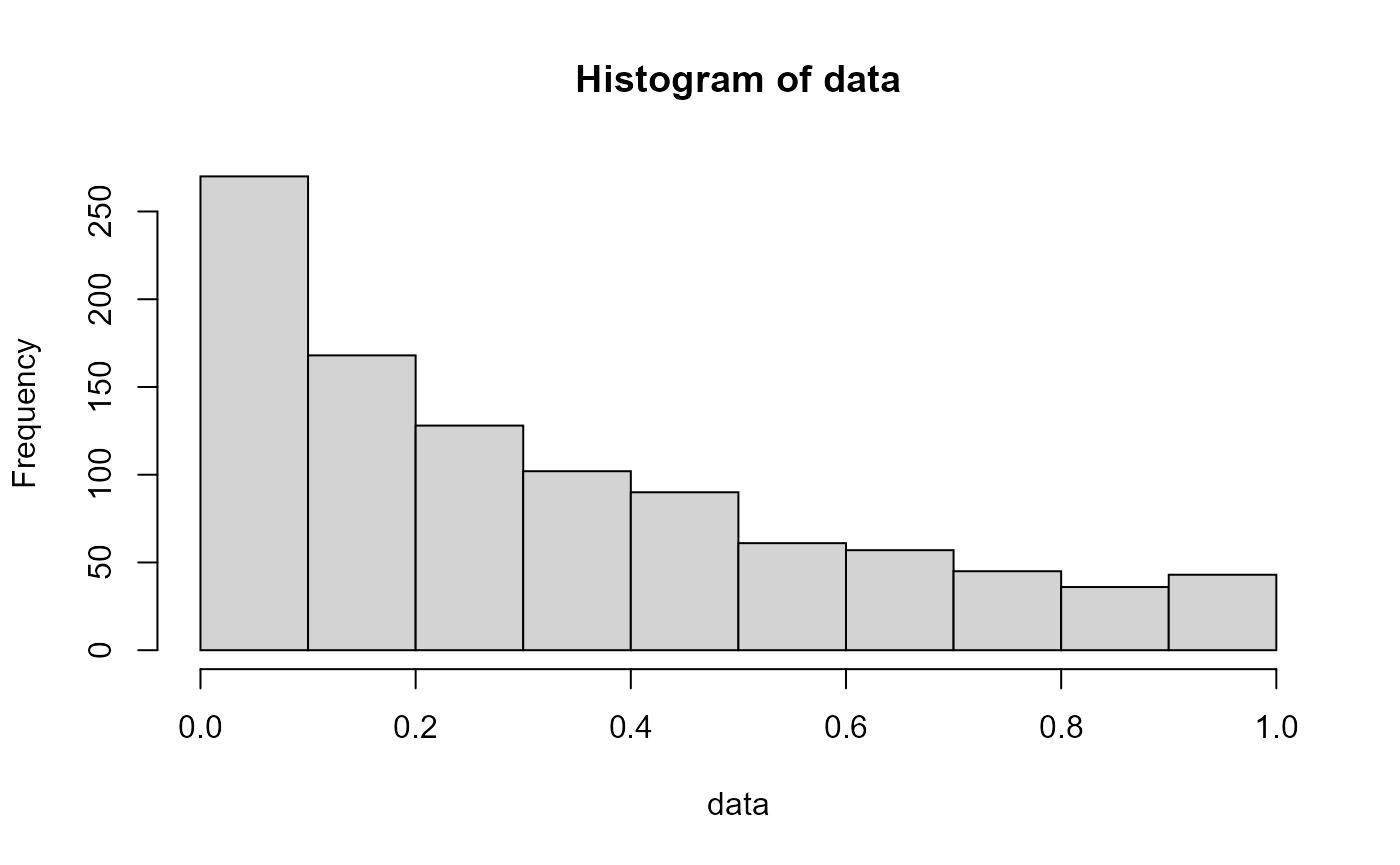
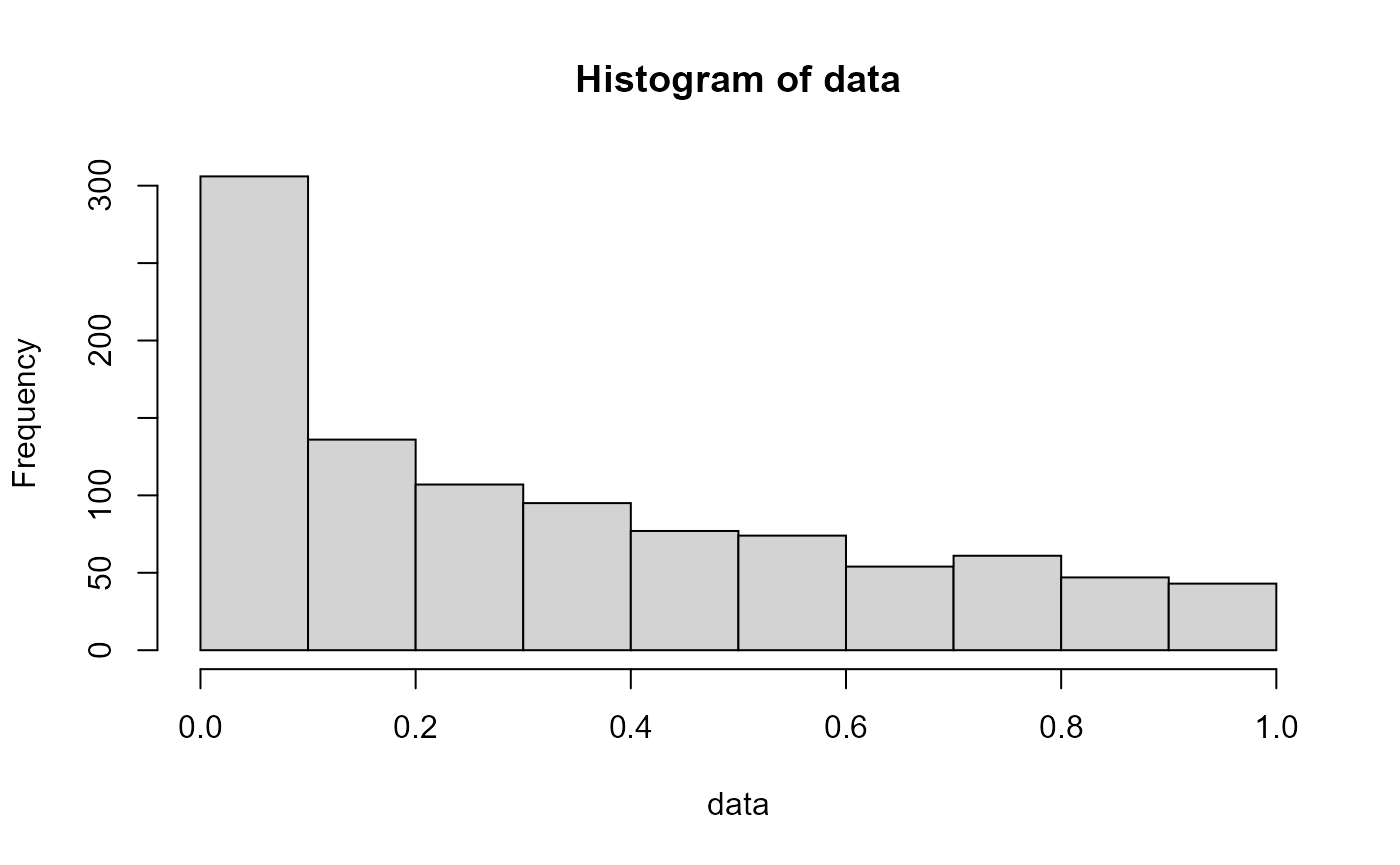
updated vignette

diff --git a/docs/articles/rng-bradford-dist.html b/docs/articles/rng-bradford-dist.html
@@ -5,7 +5,7 @@
 <meta charset="utf-8">
 <meta http-equiv="X-UA-Compatible" content="IE=edge">
 <meta name="viewport" content="width=device-width, initial-scale=1.0">
-<title>Generating Random Numbers from the Standardized Bradford Distribution with `bradfordr` • bradfordr</title>
+<title>Use the Standardized Bradford Distribution in R with `bradfordr` • bradfordr</title>
 <!-- favicons --><link rel="icon" type="image/png" sizes="16x16" href="../favicon-16x16.png">
 <link rel="icon" type="image/png" sizes="32x32" href="../favicon-32x32.png">
 <link rel="apple-touch-icon" type="image/png" sizes="180x180" href="../apple-touch-icon.png">
@@ -17,7 +17,7 @@
 <script src="../bootstrap-toc.js"></script><!-- Font Awesome icons --><link rel="stylesheet" href="https://cdnjs.cloudflare.com/ajax/libs/font-awesome/5.12.1/css/all.min.css" integrity="sha256-mmgLkCYLUQbXn0B1SRqzHar6dCnv9oZFPEC1g1cwlkk=" crossorigin="anonymous">
 <link rel="stylesheet" href="https://cdnjs.cloudflare.com/ajax/libs/font-awesome/5.12.1/css/v4-shims.min.css" integrity="sha256-wZjR52fzng1pJHwx4aV2AO3yyTOXrcDW7jBpJtTwVxw=" crossorigin="anonymous">
 <!-- clipboard.js --><script src="https://cdnjs.cloudflare.com/ajax/libs/clipboard.js/2.0.6/clipboard.min.js" integrity="sha256-inc5kl9MA1hkeYUt+EC3BhlIgyp/2jDIyBLS6k3UxPI=" crossorigin="anonymous"></script><!-- headroom.js --><script src="https://cdnjs.cloudflare.com/ajax/libs/headroom/0.11.0/headroom.min.js" integrity="sha256-AsUX4SJE1+yuDu5+mAVzJbuYNPHj/WroHuZ8Ir/CkE0=" crossorigin="anonymous"></script><script src="https://cdnjs.cloudflare.com/ajax/libs/headroom/0.11.0/jQuery.headroom.min.js" integrity="sha256-ZX/yNShbjqsohH1k95liqY9Gd8uOiE1S4vZc+9KQ1K4=" crossorigin="anonymous"></script><!-- pkgdown --><link href="../pkgdown.css" rel="stylesheet">
-<script src="../pkgdown.js"></script><meta property="og:title" content="Generating Random Numbers from the Standardized Bradford Distribution with `bradfordr`">
+<script src="../pkgdown.js"></script><meta property="og:title" content="Use the Standardized Bradford Distribution in R with `bradfordr`">
 <meta property="og:description" content="bradfordr">
 <meta property="og:image" content="https://victordogo.github.io/bradfordr/logo.png">
 <!-- mathjax --><script src="https://cdnjs.cloudflare.com/ajax/libs/mathjax/2.7.5/MathJax.js" integrity="sha256-nvJJv9wWKEm88qvoQl9ekL2J+k/RWIsaSScxxlsrv8k=" crossorigin="anonymous"></script><script src="https://cdnjs.cloudflare.com/ajax/libs/mathjax/2.7.5/config/TeX-AMS-MML_HTMLorMML.js" integrity="sha256-84DKXVJXs0/F8OTMzX4UR909+jtl4G7SPypPavF+GfA=" crossorigin="anonymous"></script><!--[if lt IE 9]>
@@ -61,7 +61,7 @@
   </a>
   <ul class="dropdown-menu" role="menu">
 <li>
-      <a href="../articles/rng-bradford-dist.html">Generating Random Numbers from the Standardized Bradford Distribution with `bradfordr`</a>
+      <a href="../articles/rng-bradford-dist.html">Use the Standardized Bradford Distribution in R with `bradfordr`</a>
     </li>
   </ul>
 </li>
@@ -86,7 +86,7 @@
       </header><script src="rng-bradford-dist_files/header-attrs-2.9/header-attrs.js"></script><div class="row">
   <div class="col-md-9 contents">
     <div class="page-header toc-ignore">
-      <h1 data-toc-skip>Generating Random Numbers from the Standardized Bradford Distribution with <code>bradfordr</code>
+      <h1 data-toc-skip>Use the Standardized Bradford Distribution in R with <code>bradfordr</code>
 </h1>
                         <h4 class="author">Victor Dogo</h4>
             
@@ -134,7 +134,7 @@ x = F^{-1}(u;c) = \frac{(1+c)^u - 1}{c}
 <span class="va">data</span> <span class="op">&lt;-</span> <span class="fu"><a href="../reference/rbradford.html">rbradford</a></span><span class="op">(</span><span class="fl">1000</span>, c<span class="op">=</span><span class="fl">10</span><span class="op">)</span>
 
 <span class="fu"><a href="https://rdrr.io/r/utils/head.html">head</a></span><span class="op">(</span><span class="va">data</span><span class="op">)</span>
-<span class="co">#&gt; [1] 0.06538119 0.63817619 0.35420745 0.06442707 0.11315281 0.49774294</span></code></pre></div>
+<span class="co">#&gt; [1] 0.005755821 0.028430805 0.292709376 0.047001799 0.428686256 0.282863807</span></code></pre></div>
 <p>We can easily plot this data to understand how it behaves:</p>
 <div class="sourceCode" id="cb3"><pre class="downlit sourceCode r">
 <code class="sourceCode R">
@@ -149,8 +149,37 @@ x = F^{-1}(u;c) = \frac{(1+c)^u - 1}{c}
 <p><img src="rng-bradford-dist_files/figure-html/unnamed-chunk-4-1.png" width="700"></p>
 <p>These differences can be seen better with the help of the other functions. It’s also possible to verify that graphically:</p>
 </div>
-<div id="section" class="section level2">
-<h2></h2>
+<div id="verify-distribution-behavior-graphically" class="section level2">
+<h2 class="hasAnchor">
+<a href="#verify-distribution-behavior-graphically" class="anchor"></a>Verify distribution behavior graphically</h2>
+<p>It’s useful, for us, to visualize how the distribution’s curve changes regarding the possible values of the <code>c</code> parameter. This can be done with <code>pbradford</code> (which defines the Cumulative Distribution Function), <code>dbradford</code> (which defines the Probability Density Function) and <code>qbradford</code> (which defines the Quantile Function).</p>
+<p>In this vignette, I’ll give an example with <code>pbradford</code>, which is the most useful function of the three mentioned above.</p>
+<div class="sourceCode" id="cb5"><pre class="downlit sourceCode r">
+<code class="sourceCode R"><span class="co"># Behavior of cdf for c = 1, 10 and 100</span>
+
+<span class="va">x</span> <span class="op">&lt;-</span> <span class="fu"><a href="https://rdrr.io/r/base/seq.html">seq</a></span><span class="op">(</span><span class="fl">0</span>,<span class="fl">1</span>,<span class="fl">0.01</span><span class="op">)</span>
+
+<span class="co"># Defining different values for the cdf based on c parameter</span>
+<span class="va">y_c1</span> <span class="op">&lt;-</span> <span class="fu"><a href="../reference/pbradford.html">pbradford</a></span><span class="op">(</span><span class="va">x</span>,c<span class="op">=</span><span class="fl">1</span><span class="op">)</span>
+<span class="va">y_c10</span> <span class="op">&lt;-</span> <span class="fu"><a href="../reference/pbradford.html">pbradford</a></span><span class="op">(</span><span class="va">x</span>,c<span class="op">=</span><span class="fl">10</span><span class="op">)</span>
+<span class="va">y_c100</span> <span class="op">&lt;-</span> <span class="fu"><a href="../reference/pbradford.html">pbradford</a></span><span class="op">(</span><span class="va">x</span>,c<span class="op">=</span><span class="fl">100</span><span class="op">)</span>
+
+<span class="co"># Plotting</span>
+
+<span class="fu"><a href="https://rdrr.io/r/graphics/plot.default.html">plot</a></span><span class="op">(</span><span class="va">x</span>,<span class="va">y_c1</span>,type<span class="op">=</span><span class="st">"l"</span>,col<span class="op">=</span><span class="st">"red"</span>,main<span class="op">=</span><span class="st">"CDF of Bradford Dist."</span>,ylab<span class="op">=</span><span class="st">"Fx"</span><span class="op">)</span>
+<span class="fu"><a href="https://rdrr.io/r/graphics/lines.html">lines</a></span><span class="op">(</span><span class="va">x</span>,<span class="va">y_c10</span>,col<span class="op">=</span><span class="st">"blue"</span><span class="op">)</span>
+<span class="fu"><a href="https://rdrr.io/r/graphics/lines.html">lines</a></span><span class="op">(</span><span class="va">x</span>,<span class="va">y_c100</span>,col<span class="op">=</span><span class="st">"green"</span><span class="op">)</span>
+<span class="fu"><a href="https://rdrr.io/r/graphics/legend.html">legend</a></span><span class="op">(</span><span class="st">"bottomright"</span>,legend<span class="op">=</span><span class="fu"><a href="https://rdrr.io/r/base/c.html">c</a></span><span class="op">(</span><span class="st">"c=1"</span>,<span class="st">"c=10"</span>,<span class="st">"c=100"</span><span class="op">)</span>,
+       lty <span class="op">=</span> <span class="fu"><a href="https://rdrr.io/r/base/c.html">c</a></span><span class="op">(</span><span class="fl">1</span>,<span class="fl">1</span>,<span class="fl">1</span><span class="op">)</span>,
+       col<span class="op">=</span><span class="fu"><a href="https://rdrr.io/r/base/c.html">c</a></span><span class="op">(</span><span class="st">"red"</span>,<span class="st">"blue"</span>,<span class="st">"green"</span><span class="op">)</span><span class="op">)</span></code></pre></div>
+<p><img src="rng-bradford-dist_files/figure-html/unnamed-chunk-5-1.png" width="700"></p>
+<p>Here, we can see that, as <code>c</code> gets bigger, so does the weight to the right of the cdf. In other words, this means that small values of <code>x</code> applied to <span class="math inline">\(F(x;c) = P(X \leq x)\)</span> tend to give us bigger probabilities as <code>c</code> grows.</p>
+<p>This is true to all other functions as well: the size of the parameter <code>c</code> influences how much weight smaller values of <span class="math inline">\(x\)</span> have.</p>
+</div>
+<div id="remarks" class="section level2">
+<h2 class="hasAnchor">
+<a href="#remarks" class="anchor"></a>Remarks</h2>
+<p>This vignette is a WIP. Any suggestions are welcome here. I’m always finding better ways to write everything in this package, so comments help me a lot.</p>
 </div>
   </div>
 

diff --git a/docs/reference/qbradford.html b/docs/reference/qbradford.html
@@ -104,7 +104,7 @@ Bradford Distribution." />
   </a>
   <ul class="dropdown-menu" role="menu">
     <li>
-      <a href="../articles/rng-bradford-dist.html">Generating Random Numbers from the Standardized Bradford Distribution with `bradfordr`</a>
+      <a href="../articles/rng-bradford-dist.html">Use the Standardized Bradford Distribution in R with `bradfordr`</a>
     </li>
   </ul>
 </li>
@@ -170,7 +170,7 @@ P(x&lt;=X); otherwise, P(x &gt; X).</p></td>
 
     <h2 class="hasAnchor" id="examples"><a class="anchor" href="#examples"></a>Examples</h2>
     <pre class="examples"><div class='input'><span class='fu'>qbradford</span><span class='op'>(</span>p<span class='op'>=</span><span class='fl'>0.5</span>, c<span class='op'>=</span><span class='fl'>13</span><span class='op'>)</span>
-</div><div class='output co'>#&gt; [1] 0.2108967</div></pre>
+</div><div class='output co'>#&gt; <span class='error'>Error in qbradford(p = 0.5, c = 13): não foi possível encontrar a função "qbradford"</span></div></pre>
   </div>
   <div class="col-md-3 hidden-xs hidden-sm" id="pkgdown-sidebar">
     <nav id="toc" data-toggle="toc" class="sticky-top">

diff --git a/docs/articles/index.html b/docs/articles/index.html
@@ -102,7 +102,7 @@
   </a>
   <ul class="dropdown-menu" role="menu">
     <li>
-      <a href="../articles/rng-bradford-dist.html">Generating Random Numbers from the Standardized Bradford Distribution with `bradfordr`</a>
+      <a href="../articles/rng-bradford-dist.html">Use the Standardized Bradford Distribution in R with `bradfordr`</a>
     </li>
   </ul>
 </li>
@@ -135,7 +135,7 @@
       <p class="section-desc"></p>
 
       <dl>
-        <dt><a href="rng-bradford-dist.html">Generating Random Numbers from the Standardized Bradford Distribution with `bradfordr`</a></dt>
+        <dt><a href="rng-bradford-dist.html">Use the Standardized Bradford Distribution in R with `bradfordr`</a></dt>
         <dd></dt>
       </dl>
     </div>

diff --git a/docs/reference/rbradford.html b/docs/reference/rbradford.html
@@ -104,7 +104,7 @@ Distribution with length n and parameter c." />
   </a>
   <ul class="dropdown-menu" role="menu">
     <li>
-      <a href="../articles/rng-bradford-dist.html">Generating Random Numbers from the Standardized Bradford Distribution with `bradfordr`</a>
+      <a href="../articles/rng-bradford-dist.html">Use the Standardized Bradford Distribution in R with `bradfordr`</a>
     </li>
   </ul>
 </li>

diff --git a/docs/reference/pbradford.html b/docs/reference/pbradford.html
@@ -104,7 +104,7 @@ of the Bradford Distribution." />
   </a>
   <ul class="dropdown-menu" role="menu">
     <li>
-      <a href="../articles/rng-bradford-dist.html">Generating Random Numbers from the Standardized Bradford Distribution with `bradfordr`</a>
+      <a href="../articles/rng-bradford-dist.html">Use the Standardized Bradford Distribution in R with `bradfordr`</a>
     </li>
   </ul>
 </li>

diff --git a/docs/reference/dbradford.html b/docs/reference/dbradford.html
@@ -103,7 +103,7 @@
   </a>
   <ul class="dropdown-menu" role="menu">
     <li>
-      <a href="../articles/rng-bradford-dist.html">Generating Random Numbers from the Standardized Bradford Distribution with `bradfordr`</a>
+      <a href="../articles/rng-bradford-dist.html">Use the Standardized Bradford Distribution in R with `bradfordr`</a>
     </li>
   </ul>
 </li>

diff --git a/docs/reference/index.html b/docs/reference/index.html
@@ -102,7 +102,7 @@
   </a>
   <ul class="dropdown-menu" role="menu">
     <li>
-      <a href="../articles/rng-bradford-dist.html">Generating Random Numbers from the Standardized Bradford Distribution with `bradfordr`</a>
+      <a href="../articles/rng-bradford-dist.html">Use the Standardized Bradford Distribution in R with `bradfordr`</a>
     </li>
   </ul>
 </li>

diff --git a/docs/404.html b/docs/404.html
@@ -102,7 +102,7 @@
   </a>
   <ul class="dropdown-menu" role="menu">
     <li>
-      <a href="articles/rng-bradford-dist.html">Generating Random Numbers from the Standardized Bradford Distribution with `bradfordr`</a>
+      <a href="articles/rng-bradford-dist.html">Use the Standardized Bradford Distribution in R with `bradfordr`</a>
     </li>
   </ul>
 </li>

diff --git a/docs/LICENSE-text.html b/docs/LICENSE-text.html
@@ -102,7 +102,7 @@
   </a>
   <ul class="dropdown-menu" role="menu">
     <li>
-      <a href="articles/rng-bradford-dist.html">Generating Random Numbers from the Standardized Bradford Distribution with `bradfordr`</a>
+      <a href="articles/rng-bradford-dist.html">Use the Standardized Bradford Distribution in R with `bradfordr`</a>
     </li>
   </ul>
 </li>

diff --git a/docs/LICENSE.html b/docs/LICENSE.html
@@ -102,7 +102,7 @@
   </a>
   <ul class="dropdown-menu" role="menu">
     <li>
-      <a href="articles/rng-bradford-dist.html">Generating Random Numbers from the Standardized Bradford Distribution with `bradfordr`</a>
+      <a href="articles/rng-bradford-dist.html">Use the Standardized Bradford Distribution in R with `bradfordr`</a>
     </li>
   </ul>
 </li>

diff --git a/docs/authors.html b/docs/authors.html
@@ -102,7 +102,7 @@
   </a>
   <ul class="dropdown-menu" role="menu">
     <li>
-      <a href="articles/rng-bradford-dist.html">Generating Random Numbers from the Standardized Bradford Distribution with `bradfordr`</a>
+      <a href="articles/rng-bradford-dist.html">Use the Standardized Bradford Distribution in R with `bradfordr`</a>
     </li>
   </ul>
 </li>

diff --git a/docs/index.html b/docs/index.html
@@ -61,7 +61,7 @@
   </a>
   <ul class="dropdown-menu" role="menu">
 <li>
-      <a href="articles/rng-bradford-dist.html">Generating Random Numbers from the Standardized Bradford Distribution with `bradfordr`</a>
+      <a href="articles/rng-bradford-dist.html">Use the Standardized Bradford Distribution in R with `bradfordr`</a>
     </li>
   </ul>
 </li>
